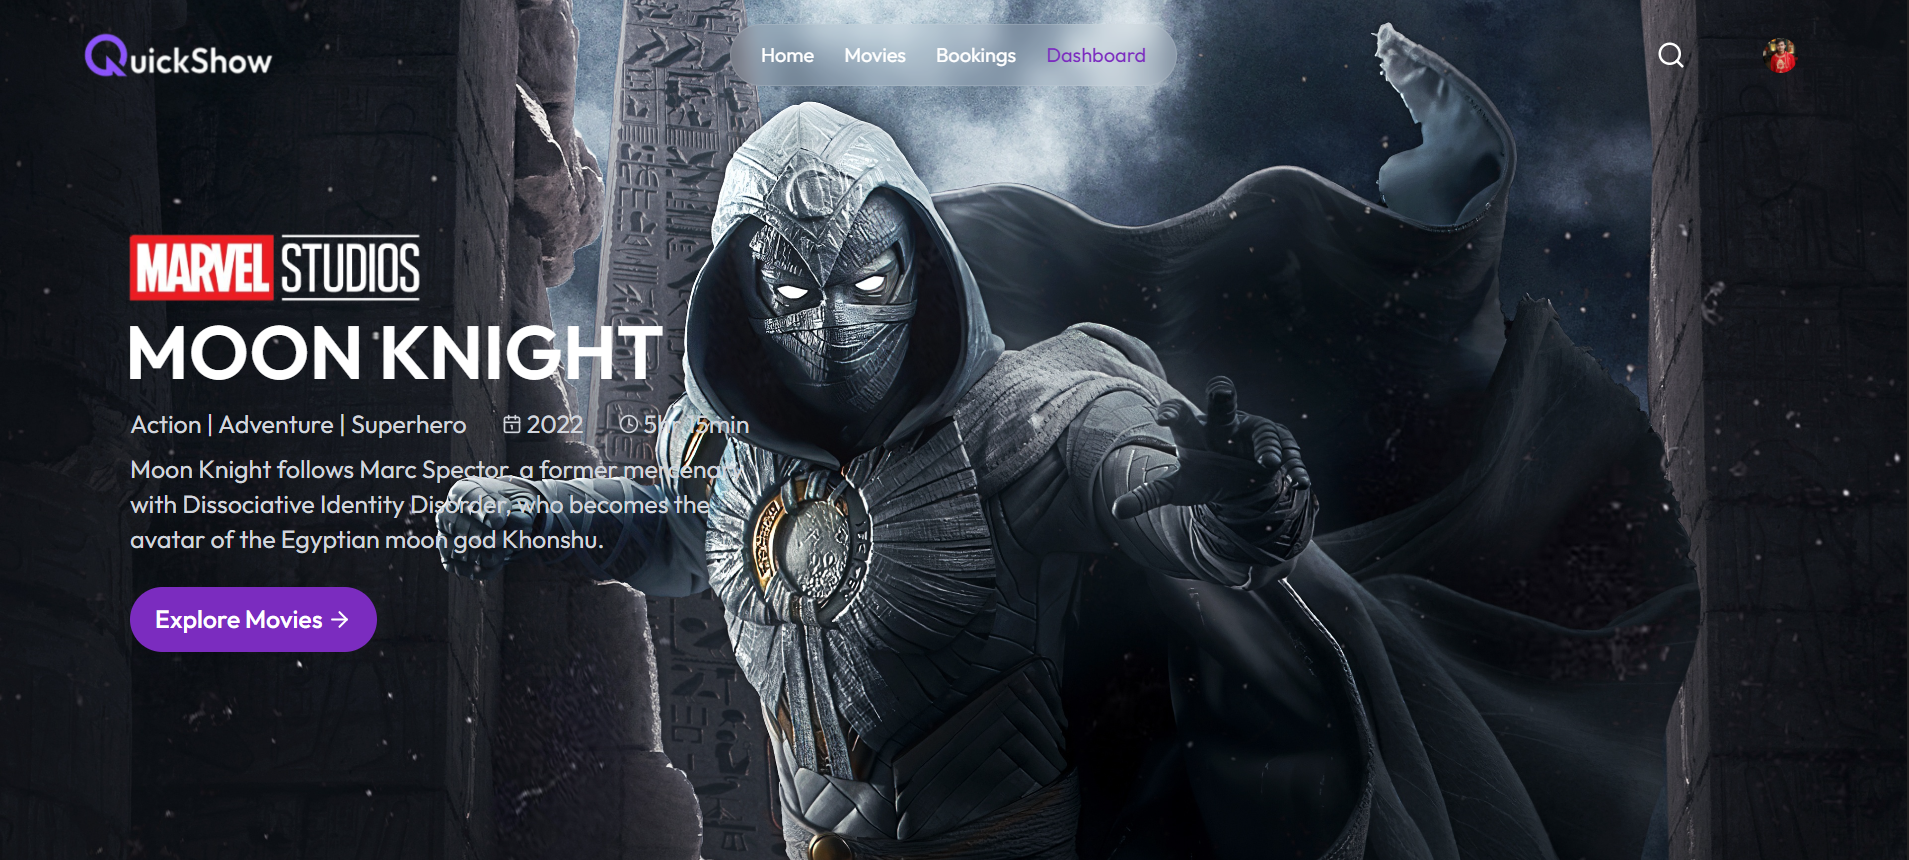
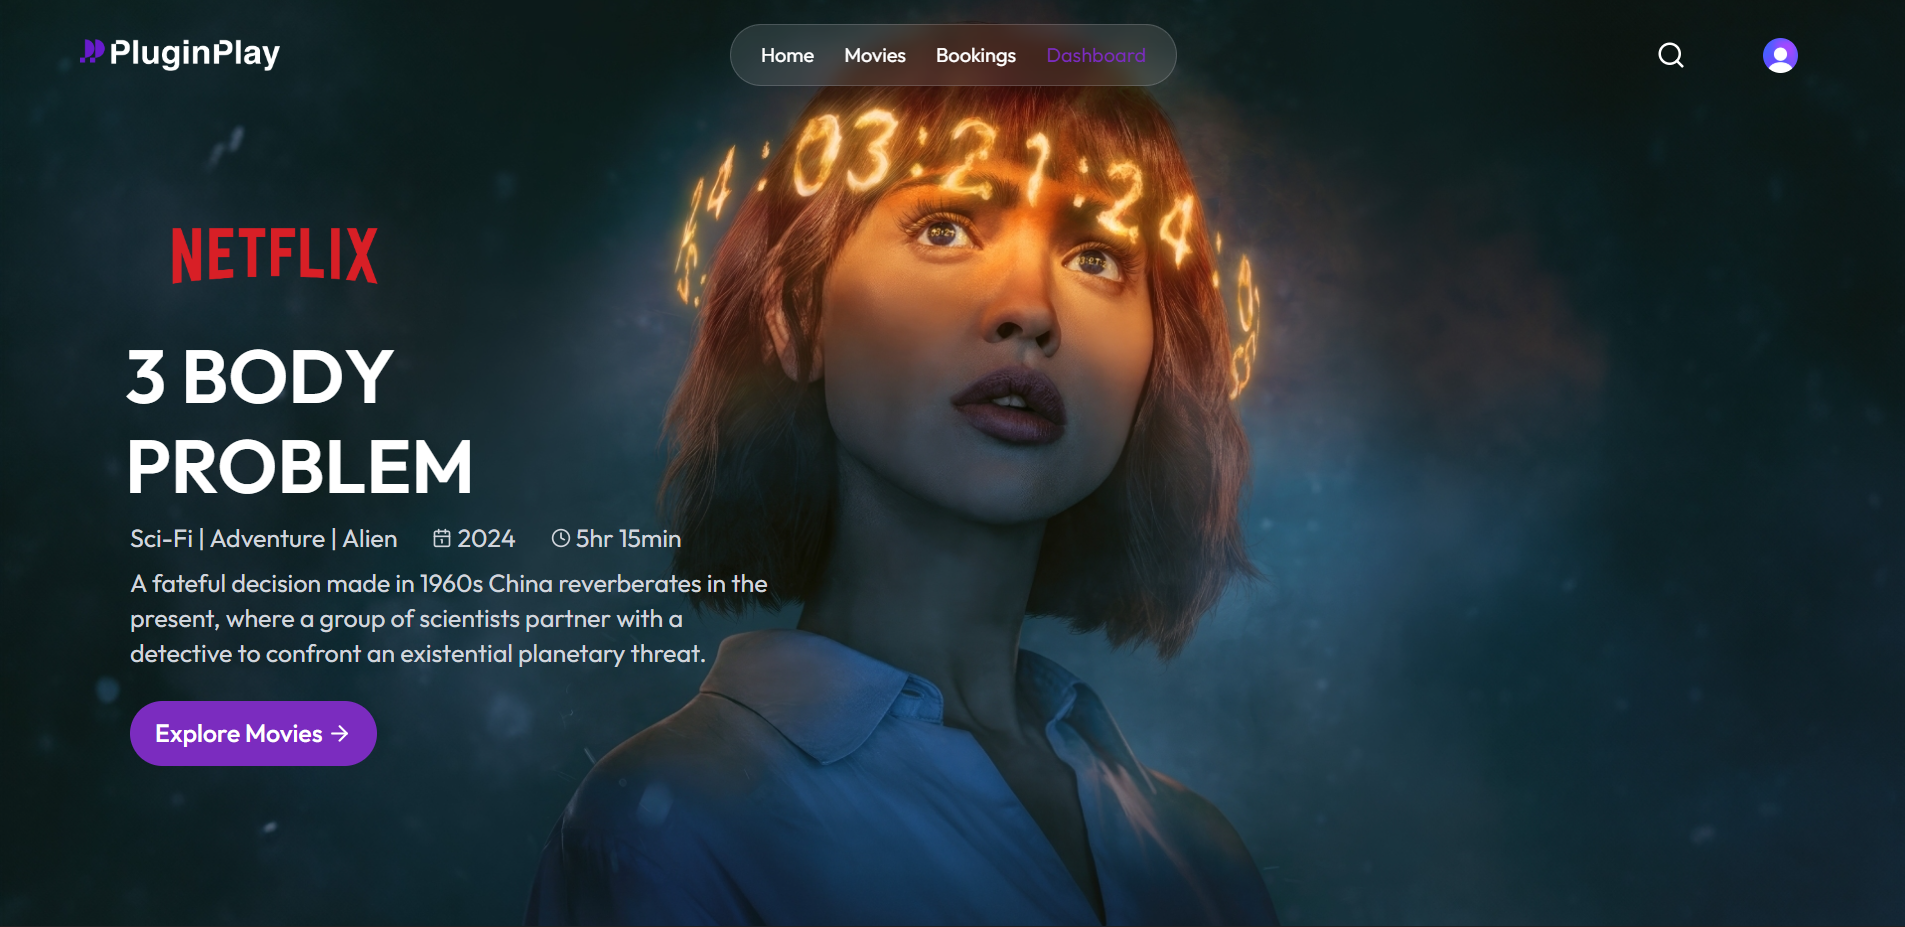
Updated: Readme File

diff --git a/README.md b/README.md
@@ -1,4 +1,4 @@
-# QuickShow – MERN Movie Ticket Booking System
+# PluginPlay – MERN Movie Ticket Booking System
 ### A fully functional full-stack MERN movie ticket booking web app built with Inngest, Nodemailer, Stripe, and Clerk for a seamless and secure movie experience.
 
 ### 🚀 Features : --
@@ -6,7 +6,7 @@
 
 🔐 Authentication via Clerk
 
-💳 Secure Payments using Stripe
+💳 Secure Payments using RazorPay
 
 📧 Email Notifications with Nodemailer
 
@@ -30,8 +30,8 @@
 ![Bookings](./Screenshots/Bookings.png)
 ### Dashboard Page
 ![Dashboard](./Screenshots/Dashboard.png)
-### List Shows Page
-![ListShows](./Screenshots/Listshows.png)
+### All Movies & Shows Page
+![ListShows](./Screenshots/All-Movies.png)
 ### List Bookings Page
 ![ListBookings](./Screenshots/Listbookings.png)
 
